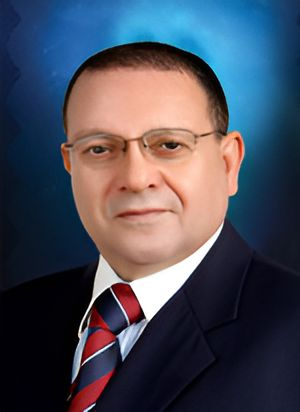
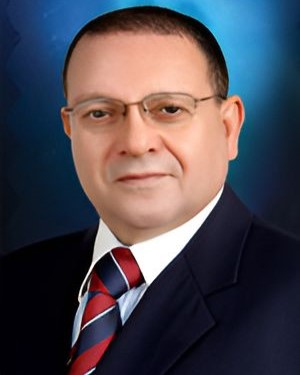
update member-photo size

diff --git a/src/app/ui/about-us/institute-management/member-photo.tsx b/src/app/ui/about-us/institute-management/member-photo.tsx
@@ -9,11 +9,12 @@ export default function MemberPhoto({ imageSrc, alt }: props) {
   return (
     <div>
       <Image
-        className=" w-[200px] rounded-lg"
+        className=" w-[200px] h-[247.321px] rounded-lg"
         src={imageSrc}
         quality={100}
-        width={10000}
-        height={10000}
+        width={3000}
+        height={3000}
+        priority={true}
         alt={alt}
       />
     </div>
